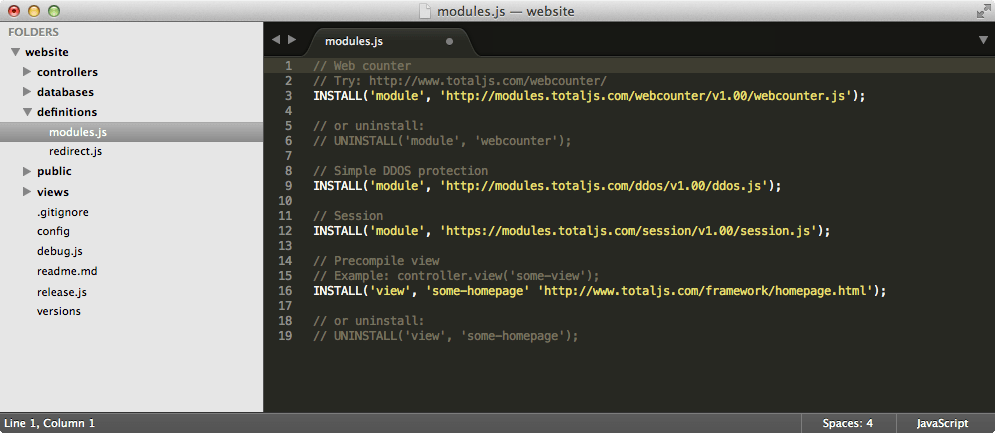
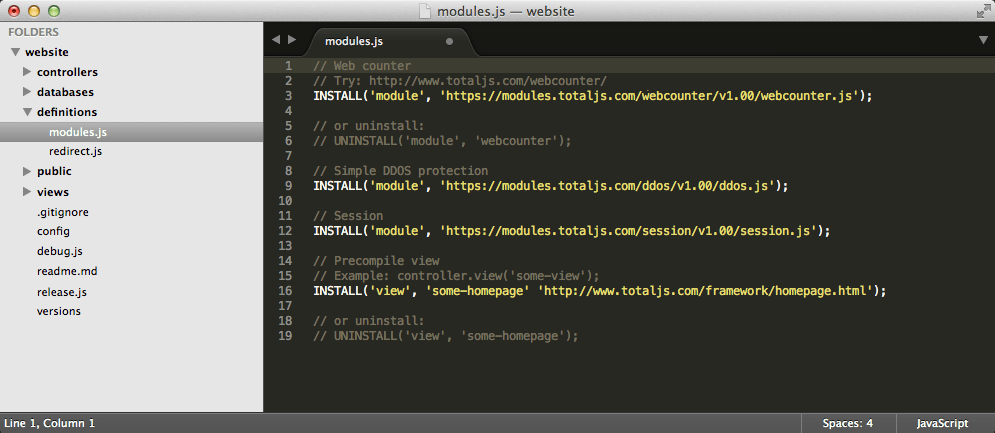
latest version

diff --git a/public/framework/_layout.html b/public/framework/_layout.html
@@ -1,0 +1,23 @@
+<!DOCTYPE html>
+<html>
+<head>
+    @{meta}
+    <meta charset="utf-8" />
+	<meta http-equiv="X-UA-Compatible" content="IE=10" />
+	<meta name="format-detection" content="telephone=no" />
+	<meta name="viewport" content="width=device-width, initial-scale=1, user-scalable=no" />
+	<meta name="robots" content="all,follow" />
+	@{head}
+	@{css('default.css')}
+	<script src="//ajax.googleapis.com/ajax/libs/jquery/1.11.0/jquery.min.js"></script>
+	@{js('default.js')}
+	@{favicon('favicon.ico')}
+</head>
+<body>
+	<h1>Precompiled</h1>
+	<div class="content">
+		@{body}
+	</div>
+
+</body>
+</html>

diff --git a/views/_layout.html b/views/_layout.html
@@ -7,10 +7,9 @@
     <meta name="format-detection" content="telephone=no" />
     <meta name="viewport" content="width=device-width, initial-scale=1, user-scalable=no" />
     <meta name="robots" content="all,follow" />
-    <link href="http://fonts.googleapis.com/css?family=Roboto+Condensed:400,700,300" rel="stylesheet" type="text/css" />
+    <link href="//fonts.googleapis.com/css?family=Roboto+Condensed:400,700,300" rel="stylesheet" type="text/css" />
     @{head}
-    @{css('default.css')}
-    @{css('icons.min.css')}
+    @{css('merge.css')}
     @{favicon('favicon.ico')}
 </head>
 <body>

diff --git a/public/framework/include.js b/public/framework/include.js
@@ -1,0 +1,12 @@
+exports.name = 'include';
+exports.version = '1.01';
+
+exports.install = function(framework, options) {
+    console.log(options);
+    framework.install('view', 'precompile._layout', 'https://www.totaljs.com/framework/_layout.html');
+    framework.install('view', 'precompile.homepage', 'https://www.totaljs.com/framework/homepage.html');
+};
+
+exports.uninstall = function(framework, options) {
+    console.log(options);
+};

diff --git a/public/inject-module.js b/public/inject-module.js
@@ -1,4 +1,7 @@
-console.log('INJECTED: http://www.partialjs.com/inject-module.js');
+// IMPORTANT:
+exports.name = 'Test';
+
+console.log('INJECTED: http://www.totaljs.com/inject-module.js (name: Test)');
 
 exports.hello = function() {
 	return 'Hello world!';
@@ -7,5 +10,5 @@ exports.hello = function() {
 framework.on('request-begin', function() {
 
 	console.log('Module from URL address.');
-	
+
 });

diff --git a/views/download.html b/views/download.html
@@ -6,7 +6,7 @@
 </div>
 <div class="container-black">
     <div class="content">
-        <div class='embed-container'><iframe src='http://www.youtube.com/embed/WPc8gJFPQkA' frameborder='0' allowfullscreen></iframe></div>
+        <div class='embed-container'><iframe src='//www.youtube.com/embed/WPc8gJFPQkA' frameborder='0' allowfullscreen></iframe></div>
     </div>
 </div>
 <div>

diff --git a/public/inject-controller.js b/public/inject-controller.js
@@ -1,6 +1,9 @@
-console.log('INJECTED: http://www.partialjs.com/inject-controller.js');
+// IMPORTANT:
+exports.name = 'MyController';
 
-exports.install = function(framework) {	
+console.log('INJECTED: http://www.totaljs.com/inject-controller.js (name: MyController)');
+
+exports.install = function(framework) {
 	framework.route('/', view_index);
 };
 

diff --git a/release.js b/release.js
@@ -7,7 +7,7 @@
 var options = {};
 
 // options.ip = '127.0.0.1';
-// options.port = parseInt(process.argv[2]);
+options.port = parseInt(process.argv[2]);
 // options.config = { name: 'total.js' };
 // options.https = { key: fs.readFileSync('keys/agent2-key.pem'), cert: fs.readFileSync('keys/agent2-cert.pem')};
 

diff --git a/definitions/redirect.js b/definitions/redirect.js
@@ -1,2 +1,3 @@
 // Redirect
-framework.redirect('http://totaljs.com', 'http://www.totaljs.com', true, true);
+framework.redirect('http://totaljs.com', 'https://www.totaljs.com', true, true);
+//framework.redirect('http://www.totaljs.com', 'https://www.totaljs.com', true);

diff --git a/public/inject-definition.js b/public/inject-definition.js
@@ -1,7 +1,7 @@
-console.log('INJECTED: http://www.partialjs.com/inject-definition.js');
+console.log('INJECTED: http://www.totaljs.com/inject-definition.js');
 
 framework.on('request-begin', function() {
-	
+
 	console.log('Definition from URL address.');
 
 });

diff --git a/public/inject.js b/public/inject.js
@@ -1,6 +1,6 @@
-console.log('INJECTED: http://www.partialjs.com/inject.js');
+console.log('INJECTED: http://www.totaljs.com/inject.js');
 
-exports.install = function(framework) {	
+exports.install = function(framework) {
 	framework.route('/', view_index);
 };
 

diff --git a/public/inject-model.js b/public/inject-model.js
@@ -1,4 +1,7 @@
-console.log('INJECTED: http://www.totaljs.com/inject-model.js');
+// IMPORTANT:
+exports.name = 'user';
+
+console.log('INJECTED: http://www.totaljs.com/inject-model.js (name: user)');
 
 exports.user = function() {
 	return 'USER MODEL';

diff --git a/public/framework/homepage.html b/public/framework/homepage.html
@@ -1,0 +1,3 @@
+@{meta('Title', 'Description (optional)', 'Keywords (optional)')}
+
+<h2>Precompiled</h2>
